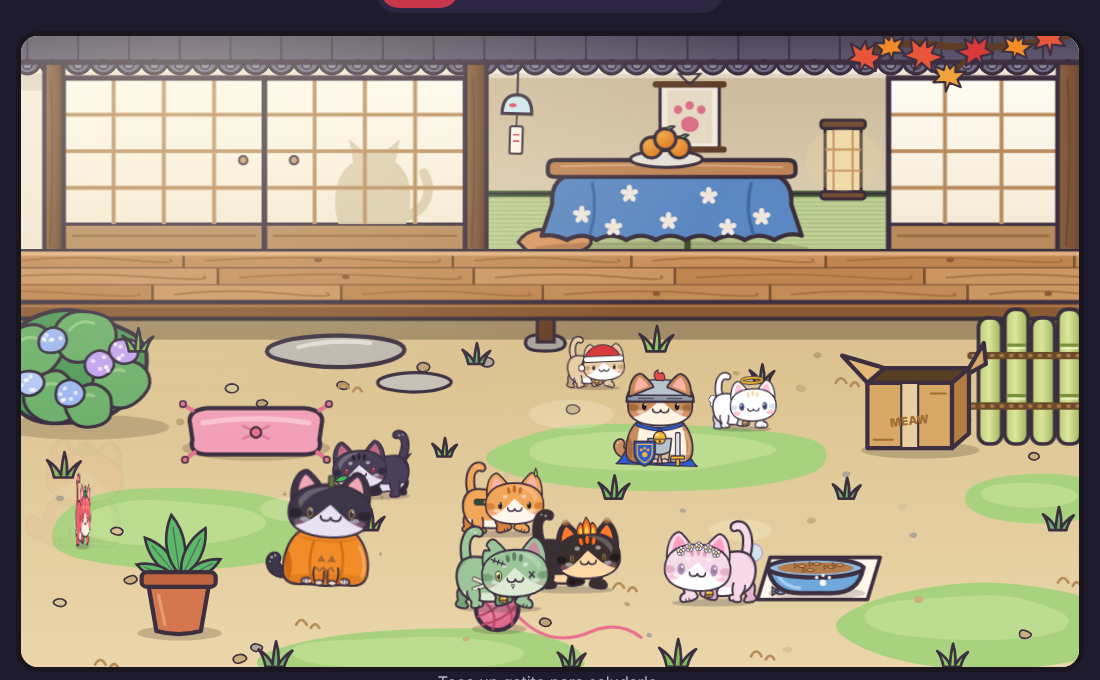
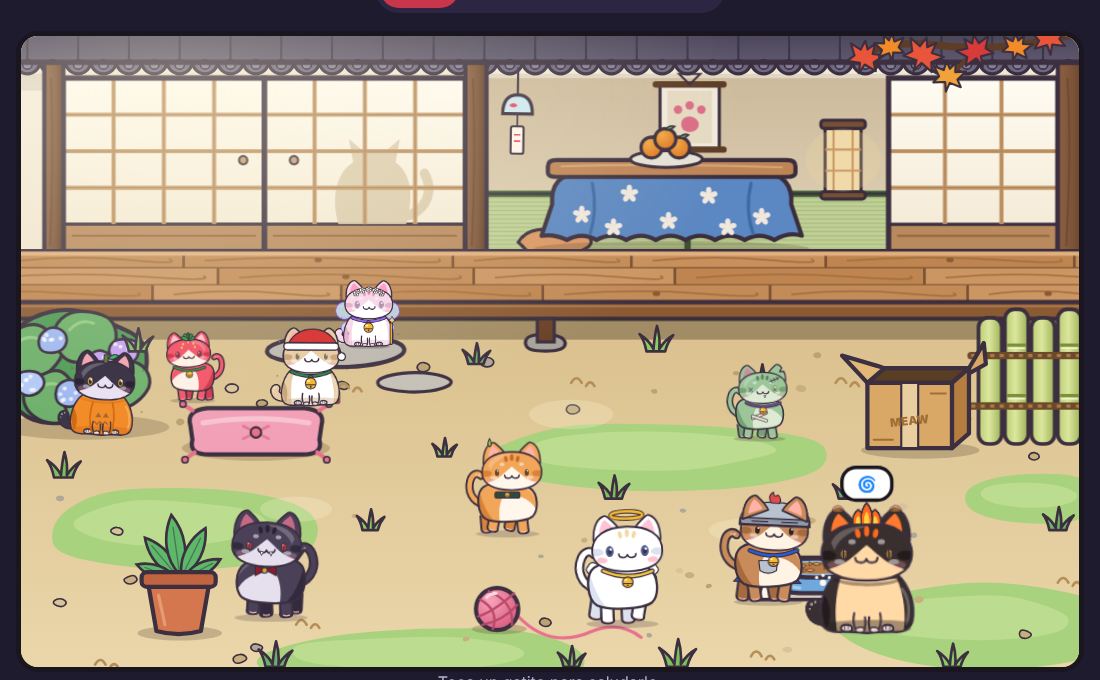
Restyle walking pose after the video: standing 3/4 cat with column legs
Head on top of a small round body, four short column legs tucked under
the belly stepping in diagonal pairs (lift and reach forward), tail curled
up behind; art walks to the right and mirrors for left. Neck items and
collar ride with the head again.

Claude-Session: https://claude.ai/code/session_01DiuTr3FmZvpZGRHY7Z9UJZ

diff --git a/cats.js b/cats.js
@@ -362,46 +362,44 @@ const CATS = [
     } },
 ];
 
-// Walking pose (crouched chibi trot, facing left): big v2 head low at the front, short round body behind it,
-// stubby legs with mitten paws, thick raised tail. Held items, neck items and ground props are hidden.
-const LEG_B = 'M-16 -10 C-20 4 -17 13 -12 18 C-19 20 -22 28 -16 31 C-7 35 10 35 13 30 C15 26 13 21 10 18 C16 10 19 0 16 -10';
-const TORSO = 'M118 170 C128 150 158 138 186 140 C210 142 220 160 218 184 C216 206 204 224 182 228 C158 232 130 232 114 222 C102 212 106 186 118 170 Z';
-const WTAIL = 'M198 168 C214 148 218 116 210 96 C204 80 190 74 178 80 C168 86 172 100 182 97 C190 94 196 102 196 114 C196 134 188 152 180 162 Z';
+// Walking pose (3/4 front view, standing, walking to the RIGHT): big v2 head on top, small round body,
+// four short column legs stepping in diagonal pairs, tail curled up behind. Held items and ground props are hidden.
+const WLEG = 'M-12 -8 C-12 6 -12 17 -12 22 C-13 29 -6 31 2 31 C10 31 14 28 12 22 C12 15 12 4 12 -8';
+const TORSO = 'M70 132 C92 116 152 116 178 134 C198 148 198 186 184 200 C166 214 96 216 76 206 C56 194 52 146 70 132 Z';
+const WTAIL = 'M70 172 C44 166 32 142 38 118 C42 102 54 98 62 106';
+const HEADX = 'translate(34 26) scale(.8)'; // v2 head/neck space -> walking pose (chin at 136,140)
 const TORSO_ITEMS = new Set(['gato-sushi', 'gato-zombi', 'gato-astronauta', 'gato-dragon', 'gato-bombero', 'gato-detective', 'gato-calabaza', 'gato-robot', 'gato-rayo', 'gato-caballero']);
 function buildWalk(c, uid = '') {
   const L = buildCat(c, uid), id = c.id + uid, p = c.colors, a = c.acc || {}, light = mix(p.fur, '#FFFFFF', .5);
   const A = k => sh((c.shift || {})[k], a[k]) || a[k] || '';
   const near = c.bodyFill || p.fur, far = c.bodyShade || p.shade;
-  const leg = (cls, x, y, d, fill, back) => { const ty = back ? 29 : 26, lx = back ? -9 : -12;
-    return `<g transform="translate(${x} ${y})"><g class="w-leg ${cls}"><path d="${d}Z" ${st(fill, 4)}/>
-      <path d="M${lx - 3} ${ty - 2} q5 -4 11 -2" stroke="#FFFFFF" stroke-width="2.5" fill="none" stroke-linecap="round" opacity=".45"/>
-      <path d="M${lx} ${ty} q1.5 3 0 5.5 M${lx + 7} ${ty} q1.5 3 0 5.5" stroke="${O}" stroke-width="2.2" fill="none" stroke-linecap="round"/></g></g>`; };
-  const paw = (cls, x, y, fill, rot) => `<g transform="translate(${x} ${y})"><g class="w-leg ${cls}"><g transform="rotate(${rot} 0 17)">
-      <path d="M-12 18 C-13 10 -6 5 0 5 C7 5 13 10 12 18 C12 24 6 28 0 28 C-6 28 -12 24 -12 18 Z" ${st(fill, 4)}/>
-      <path d="M-8 24.5 q8 4 16 0" stroke="#F6C9C0" stroke-width="2.6" fill="none" stroke-linecap="round"/>
-      <path d="M-4 6.5 q1 3 0 6 M4 6.5 q-1 3 0 6" stroke="${O}" stroke-width="2.4" fill="none" stroke-linecap="round"/>
-      <path d="M-9 13 q2 -4 6 -5" stroke="#FFFFFF" stroke-width="2.4" fill="none" stroke-linecap="round" opacity=".5"/></g></g></g>`;
+  // legs sit behind the body: only the part below the belly shows, so there is no seam
+  const leg = (cls, x, y, fill) => `<g transform="translate(${x} ${y})"><g class="w-leg ${cls}"><path d="${WLEG}Z" fill="${fill}"/>
+      <path d="${WLEG}" fill="none" stroke="${O}" stroke-width="4.5" stroke-linecap="round" stroke-linejoin="round"/>
+      <path d="M-6 27 q6 2.5 12 0" stroke="#F6C9C0" stroke-width="2.4" fill="none" stroke-linecap="round" opacity=".9"/></g></g>`;
+  const torsoItems = TORSO_ITEMS.has(c.id);
   return `<defs><clipPath id="${id}-tc"><path d="${TORSO}"/></clipPath></defs>
-    <g transform="translate(130 240)"><g class="w-shadow"><path transform="translate(-130 -240)" d="M44 240 C74 233 190 231 222 238 C226 245 192 249 130 249 C74 249 40 247 44 240 Z" fill="${O}" opacity=".25"/></g></g>
-    ${leg('w-fb', 200, 206, LEG_B, far, 1)}${leg('w-nb', 184, 207, LEG_B, near, 1)}
+    <g transform="translate(126 240)"><g class="w-shadow"><ellipse cx="0" cy="0" rx="74" ry="8" fill="${O}" opacity=".22"/></g></g>
+    ${leg('w-fb', 76, 206, far)}${leg('w-ff', 136, 207, far)}${leg('w-nb', 96, 208, near)}${leg('w-nf', 160, 208, near)}
     <g class="w-body">
-      <g transform="translate(95 80) scale(.55)">${A('back')}</g>
-      <g transform="translate(194 162)"><g class="w-tail"><g transform="translate(-194 -162)"><path d="${WTAIL}" ${st(p.fur, 4.5)}/>
-        <g fill="${light}"><path d="M185 88 c3 -2 6 0 5 3 c-1 3 -6 2 -5 -3z"/><path d="M194 86 c2 -2 5 -1 4 2 c-1 2 -4 2 -4 -2z"/></g></g></g></g>
+      <g transform="translate(49 52) scale(.6)">${A('back')}</g>
+      <g transform="translate(68 170)"><g class="w-tail"><g transform="translate(-68 -170)">
+        <path d="${WTAIL}" stroke="${O}" stroke-width="19" fill="none" stroke-linecap="round"/><path d="${WTAIL}" stroke="${p.fur}" stroke-width="10.5" fill="none" stroke-linecap="round"/>
+        <g fill="${light}"><circle cx="58" cy="105" r="2.6"/><circle cx="51" cy="104" r="2"/></g></g></g></g>
       <path d="${TORSO}" fill="${near}"/>
       <g clip-path="url(#${id}-tc)">
-        ${c.bodyFill ? '' : `<path d="M104 204 C130 214 170 216 226 206 L226 236 L104 236 Z" fill="${p.belly}"/>`}
-        <path d="M196 146 C222 156 230 186 212 216 C224 188 218 164 196 146 Z" fill="${far}"/>
-        ${TORSO_ITEMS.has(c.id) ? `<g transform="translate(95 80) scale(.55)">${A('body')}${A('bodyTop')}</g>` : ''}
+        ${c.bodyFill ? '' : `<path d="M118 150 C156 146 196 166 200 210 L110 220 C104 196 106 168 118 150 Z" fill="${p.belly}"/>`}
+        <path d="M60 140 C70 170 78 196 100 214 L48 214 Z" fill="${far}"/>
+        <path d="M150 128 C176 132 192 150 196 170" stroke="#FFFFFF" stroke-width="5" fill="none" stroke-linecap="round" opacity=".2"/>
+        ${torsoItems ? `<g transform="translate(49 52) scale(.6)">${A('body')}${A('bodyTop')}</g>` : ''}
       </g>
-      <path d="M200 174 C184 180 176 200 180 224" stroke="${O}" stroke-width="3.5" fill="none" stroke-linecap="round"/><path d="M196 182 C186 190 183 204 185 214" stroke="#FFFFFF" stroke-width="3" fill="none" stroke-linecap="round" opacity=".3"/>
       <path d="${TORSO}" fill="none" stroke="${O}" stroke-width="4.5" stroke-linejoin="round"/>
     </g>
     <g class="w-body">
-      ${c.collar === false ? '' : bell(124, 226, 8)}
-      <g transform="translate(98 222)"><g class="w-head"><g transform="translate(-100 -122) scale(.78 .86)">${L.head}${L.face}</g></g></g>
-    </g>
-    ${paw('w-ff', 136, 210, far, -10)}${paw('w-nf', 64, 208, near, 14)}`;
+      <g transform="${HEADX}">${torsoItems ? '' : A('body') + A('bodyTop')}
+        ${c.collar === false ? '' : `<path d="M68 140 Q128 166 188 140" stroke="${O}" stroke-width="12" fill="none" stroke-linecap="round"/><path d="M68 140 Q128 166 188 140" stroke="${p.accent}" stroke-width="6" fill="none" stroke-linecap="round"/>${bell(128, 168, 13)}`}</g>
+      <g transform="translate(136 140)"><g class="w-head"><g transform="translate(-102 -114) scale(.8)">${L.head}${L.face}</g></g></g>
+    </g>`;
 }
 
 if (typeof module !== 'undefined') module.exports = { CATS, buildCat, buildWalk };

diff --git a/index.html b/index.html
@@ -147,10 +147,10 @@
   .pet.walk .w-leg { animation: w-leg var(--stride, .8s) linear infinite; }
   .pet.walk .w-ff, .pet.walk .w-nb { animation-delay: calc(var(--stride, .8s) / -2); }
   .pet.walk .w-nb, .pet.walk .w-fb { animation-name: w-leg-back; }
-  @keyframes w-leg { 0%, 100% { transform: rotate(20deg); } 12.5% { transform: rotate(14deg); } 25% { transform: rotate(0); } 37.5% { transform: rotate(-14deg); }
-    50% { transform: rotate(-20deg); } 62.5% { transform: translateY(-3.5px) rotate(-14deg); } 75% { transform: translateY(-5px) rotate(0); } 87.5% { transform: translateY(-3.5px) rotate(14deg); } }
-  @keyframes w-leg-back { 0%, 100% { transform: rotate(16deg); } 12.5% { transform: rotate(11deg); } 25% { transform: rotate(0); } 37.5% { transform: rotate(-11deg); }
-    50% { transform: rotate(-16deg); } 62.5% { transform: translateY(-3px) rotate(-11deg); } 75% { transform: translateY(-4px) rotate(0); } 87.5% { transform: translateY(-3px) rotate(11deg); } }
+  @keyframes w-leg { 0%, 100% { transform: rotate(-10deg); } 25% { transform: rotate(0); } 50% { transform: rotate(10deg); }
+    62.5% { transform: translateY(-6px) rotate(14deg); } 75% { transform: translateY(-8px) rotate(4deg); } 87.5% { transform: translateY(-4px) rotate(-12deg); } }
+  @keyframes w-leg-back { 0%, 100% { transform: rotate(-8deg); } 25% { transform: rotate(0); } 50% { transform: rotate(8deg); }
+    62.5% { transform: translateY(-5px) rotate(12deg); } 75% { transform: translateY(-7px) rotate(3deg); } 87.5% { transform: translateY(-3px) rotate(-10deg); } }
   .pet.walk .w-body { animation: w-bob calc(var(--stride, .8s) / 2) ease-in-out infinite alternate; }
   @keyframes w-bob { to { transform: translateY(-3px); } }
   .pet.walk .w-head { animation: w-nod var(--stride, .8s) ease-in-out -.1s infinite; }
@@ -474,7 +474,7 @@ function tick(now) {
       }
       // pseudo-3D: walking cats turn toward where they go; resting cats face the player
       p.el.querySelector('.tilt').style.setProperty('--ry', `${p.state === 'interact' ? p.dir * 32 : 0}deg`);
-      p.wp.style.transform = p.dir > 0 ? 'scaleX(-1)' : ''; // walking art faces left
+      p.wp.style.transform = p.dir < 0 ? 'scaleX(-1)' : ''; // walking art faces right
       p.el.style.setProperty('--stride', `${Math.min(1.1, Math.max(.22, .056 / Math.max(.02, Math.hypot(p.vx, p.vy))))}s`);
       p.el.style.setProperty('--dir', p.dir);
       const s = .6 + .55 * (p.y - Y0) / (Y1 - Y0), size = W * .11;
